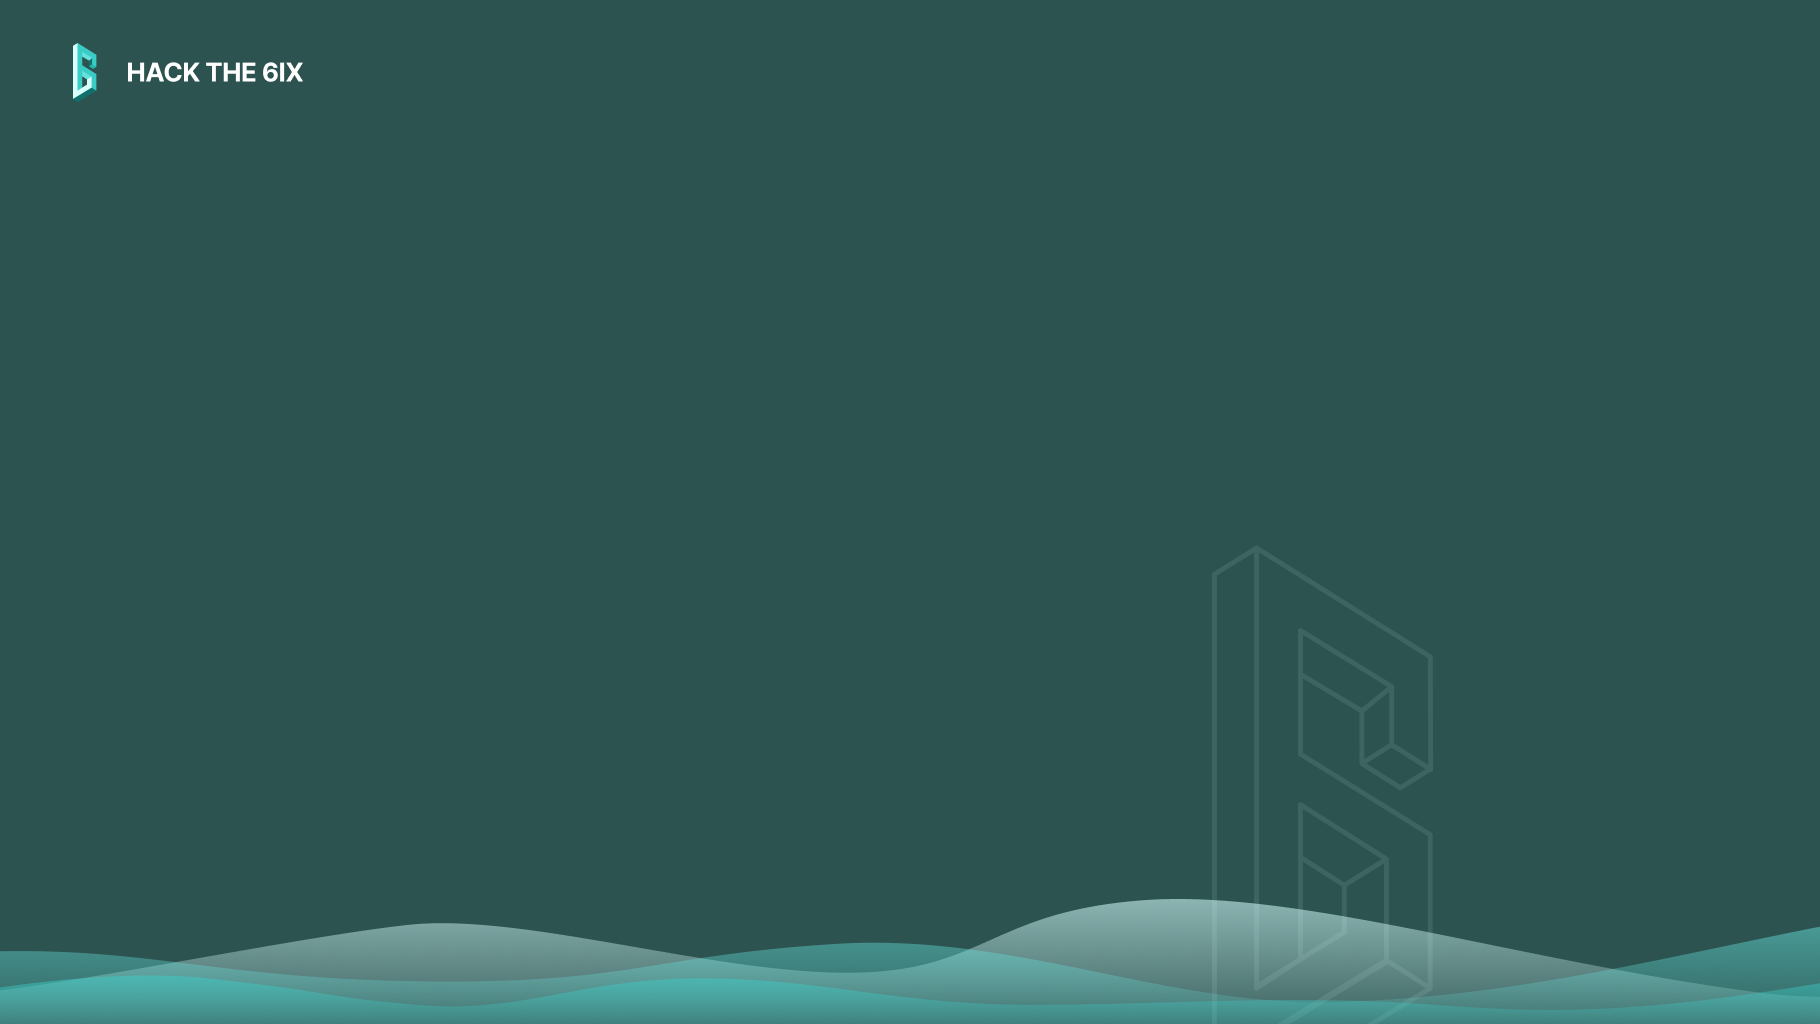
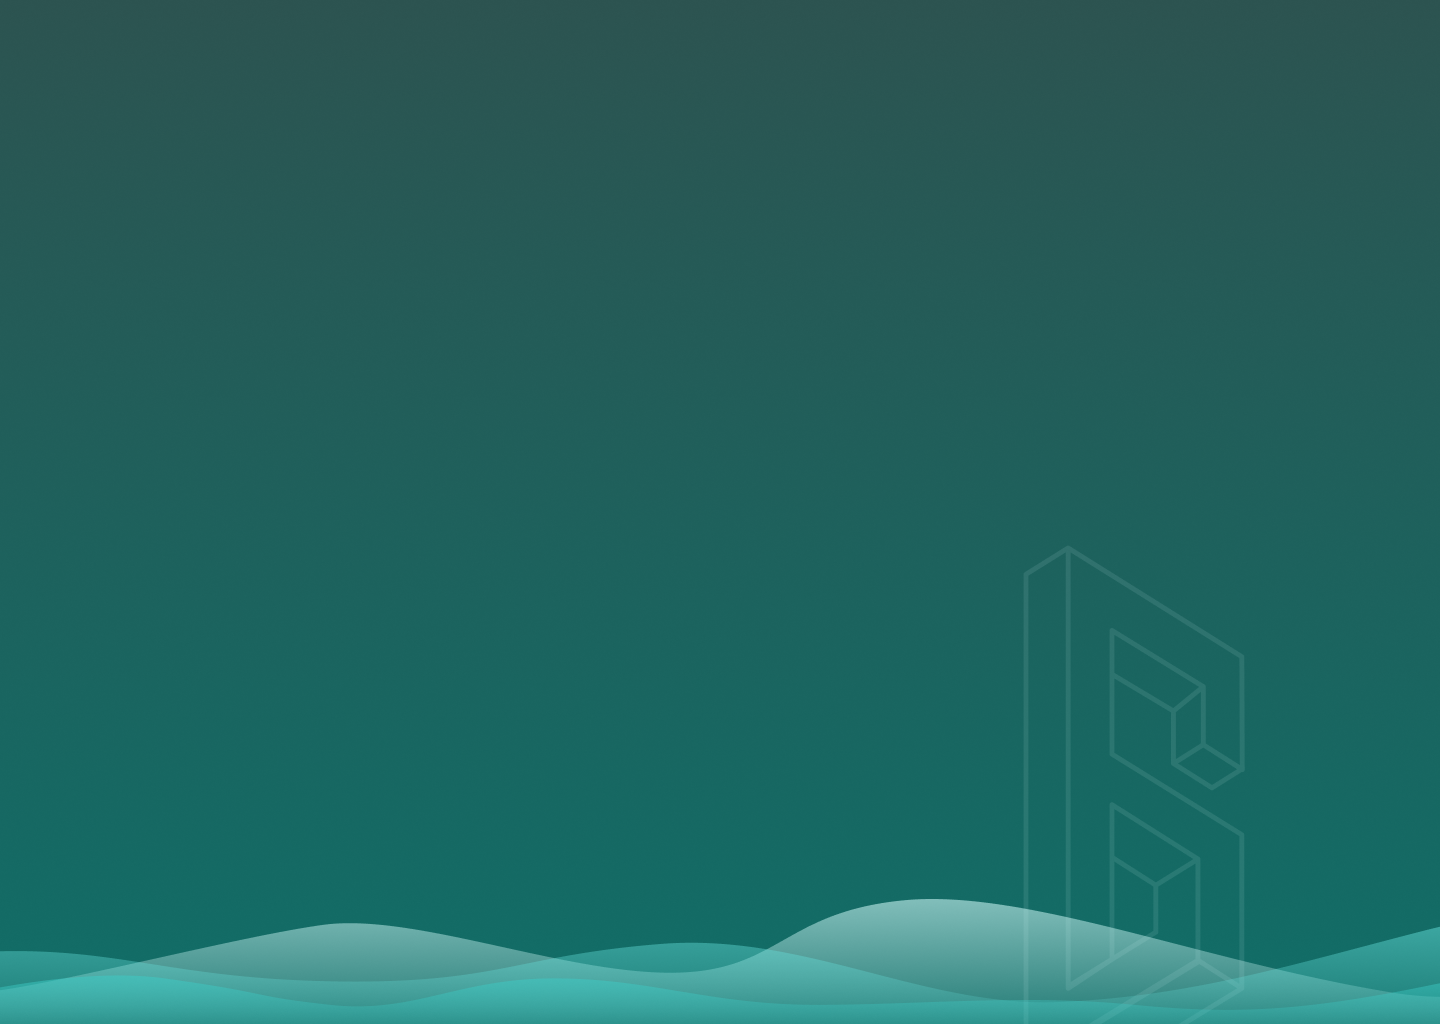
update background

diff --git a/theme/login/resources/css/styles.css b/theme/login/resources/css/styles.css
@@ -23,7 +23,8 @@ body {
   background-color: transparent !important;
   font-family: var(--font-family);
   font-weight: 599;
-  transition: var(--transition-duration) ease;
+  transition: background-color var(--transition-duration) ease;
+  position: relative;
 
   &.black-theme {
     background-color: var(--background-color-dark) !important;
@@ -72,6 +73,32 @@ body {
       color: var(--text-color-light) !important;
     }
   }
+}
+
+body::before {
+  content: "";
+  position: absolute;
+  top: 1rem;
+  left: 1rem;
+  width: 196px;
+  height: 50px; /* Adjust height as needed */
+  background-repeat: no-repeat;
+  background-position: center top;
+  background-size: contain;
+  z-index: 1;
+}
+
+body.light-theme::before {
+  background-image: url("../img/banner/light.png") !important;
+}
+
+body.black-theme::before {
+  background-image: url("../img/banner.dark.png") !important;
+}
+
+/* Add padding to the top of the card to accommodate the banner */
+.card-pf {
+  margin-top: 80px !important; /* Adjust based on banner height */
 }
 
 div.kc-logo-text {
